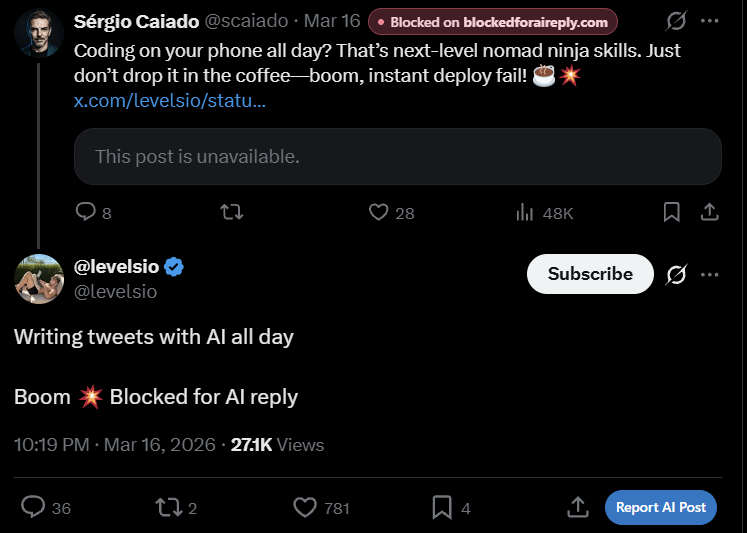
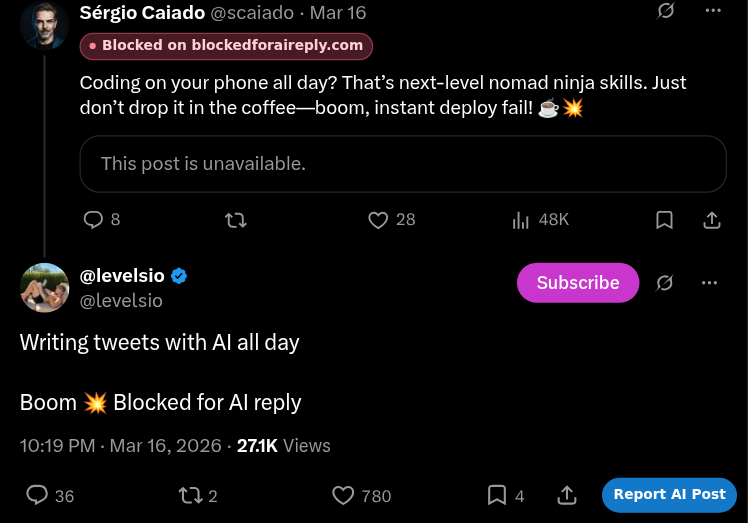
fix: improve timeline badges for v1.5.2

diff --git a/extension/timeline.js b/extension/timeline.js
@@ -35,14 +35,14 @@
     const isOpenPost = Boolean(post && pagePost && post.url.toLowerCase() === pagePost.url.toLowerCase());
     const profileLinks = candidates.filter(link => link.origin === location.origin);
     if (post && profileLinks.some(link => link.pathname.toLowerCase() === `/${post.handle.toLowerCase()}`)) {
-      return { post, handle: post.handle, header, timestamp, isOpenPost, showBadgesBelow: isOpenPost };
+      return { post, handle: post.handle, header, timestamp, isOpenPost };
     }
 
     const usernameLink = profileLinks.find(link => {
       const username = link.pathname.slice(1);
       return handlePattern.test(username) && link.textContent.trim().toLowerCase() === `@${username.toLowerCase()}`;
     });
-    return usernameLink ? { handle: usernameLink.pathname.slice(1), header, showBadgesBelow: true } : null;
+    return usernameLink ? { handle: usernameLink.pathname.slice(1), header } : null;
   }
 
   function selectPostWithoutTestIds(card) {
@@ -67,8 +67,7 @@
       post,
       handle: post.handle,
       header: usernameLink.parentElement,
-      isOpenPost: Boolean(pagePost && post.url.toLowerCase() === pagePost.url.toLowerCase()),
-      showBadgesBelow: true
+      isOpenPost: Boolean(pagePost && post.url.toLowerCase() === pagePost.url.toLowerCase())
     };
   }
 
@@ -78,6 +77,16 @@
       [...group.querySelectorAll('[data-testid="reply"], [data-testid="like"], [data-testid="unlike"], a[href^="/compose/post?in_reply_to="]')]
         .some(action => belongsToPost(action, card) && action.closest('[role="group"]') === group)
     );
+  }
+
+  function findBadgeAnchor(header, card) {
+    let anchor = header;
+    while (anchor.parentElement && anchor.parentElement !== card) {
+      const style = window.getComputedStyle(anchor.parentElement);
+      if (style.display === "block" || (style.display === "flex" && style.flexDirection.startsWith("column"))) break;
+      anchor = anchor.parentElement;
+    }
+    return anchor;
   }
 
   function createControl(card) {
@@ -159,7 +168,7 @@
       return;
     }
 
-    const { post, handle, header, timestamp, showBadgesBelow } = selection;
+    const { post, handle, header, timestamp } = selection;
     if (!control) {
       control = createControl(card);
       controls.set(card, control);
@@ -171,17 +180,10 @@
       control.error.hidden = true;
       control.button.setAttribute("aria-label", `Report AI Post by @${handle} to Blocked for AI Reply`);
     }
-    const removedDate = removed.get(key);
-    const formattedRemovedDate = removedDate
-      ? new Date(`${removedDate}T00:00:00`).toLocaleDateString(undefined, {
-        month: "short", day: "numeric", year: "numeric"
-      })
-      : null;
-    const removedLabel = `Previously blocked${formattedRemovedDate ? ` · Removed ${formattedRemovedDate}` : ""}`;
     control.label.title = former
-      ? `@${handle} was removed from the list${formattedRemovedDate ? ` on ${formattedRemovedDate}` : ""}`
-      : `@${handle} is on the blocklist`;
-    control.text.replaceChildren(...(former ? [removedLabel] : ["Blocked on ", control.source]));
+      ? "Previously blocked on blockedforaireply.com"
+      : "Blocked on blockedforaireply.com";
+    control.text.replaceChildren(...(former ? ["Previously blocked"] : narrowLayout.matches ? ["Blocked"] : ["Blocked on ", control.source]));
     control.label.classList.toggle("rrx-tag-removed", former);
 
     control.button.hidden = blocked || !post;
@@ -189,34 +191,22 @@
     if (control.button.textContent !== buttonText) control.button.textContent = buttonText;
     control.label.hidden = !tagged;
     control.badgeWrapper.hidden = !tagged;
-    const badgeBelow = tagged && (showBadgesBelow || narrowLayout.matches);
-    control.badgeWrapper.classList.toggle("rrx-under-author", Boolean(badgeBelow));
+    control.badgeWrapper.classList.toggle("rrx-under-author", tagged);
     if (blocked) control.error.hidden = true;
 
     const actionRow = blocked ? null : findActionRow(card);
     control.wrapper.classList.toggle("rrx-in-action-row", Boolean(actionRow));
     if (!tagged) {
       control.badgeWrapper.remove();
-    } else if (badgeBelow) {
-      if (control.badgeWrapper.parentElement !== header) header.append(control.badgeWrapper);
     } else {
-      const anchor = timestamp && header.contains(timestamp) ? timestamp : header;
+      const anchor = findBadgeAnchor(header, card);
       if (anchor.nextElementSibling !== control.badgeWrapper) anchor.after(control.badgeWrapper);
     }
 
-    if (badgeBelow) {
-      if (actionRow) {
-        if (control.wrapper.parentElement !== actionRow) actionRow.append(control.wrapper);
-      } else {
-        const anchor = control.badgeWrapper.parentElement === header
-          ? control.badgeWrapper
-          : timestamp && header.contains(timestamp) ? timestamp : header;
-        if (anchor.nextElementSibling !== control.wrapper) anchor.after(control.wrapper);
-      }
-    } else if (actionRow) {
+    if (actionRow) {
       if (control.wrapper.parentElement !== actionRow) actionRow.append(control.wrapper);
     } else {
-      const anchor = tagged && control.badgeWrapper.parentElement === header
+      const anchor = tagged && control.badgeWrapper.parentElement
         ? control.badgeWrapper
         : timestamp && header.contains(timestamp) ? timestamp : header;
       if (anchor.nextElementSibling !== control.wrapper) anchor.after(control.wrapper);

diff --git a/extension/timeline.css b/extension/timeline.css
@@ -52,7 +52,8 @@
   display: flex;
   flex: 0 0 auto;
   align-self: start;
-  margin: 6px 0 0;
+  width: fit-content;
+  margin: 4px 0;
   white-space: normal;
   overflow-wrap: anywhere;
 }

diff --git a/README.md b/README.md
@@ -36,10 +36,10 @@ Accounts currently listed on Blocked for AI Reply receive a visible badge direct
 
 ### 4. Track previously blocked accounts
 
-Accounts removed from the blocklist receive a separate gray badge showing their removal date. The badge remains visible for 30 days.
+Accounts removed from the blocklist receive a separate gray badge. The badge remains visible for 30 days.
 
 <p align="center">
-  <img src="imgs/levelsunblocked.png" alt="Previously blocked account badge" width="600">
+  <img src="imgs/levelsunblocked.png" alt="Previously blocked account badge shown with a fictional account" width="600">
 </p>
 
 ### 5. Customize your experience
